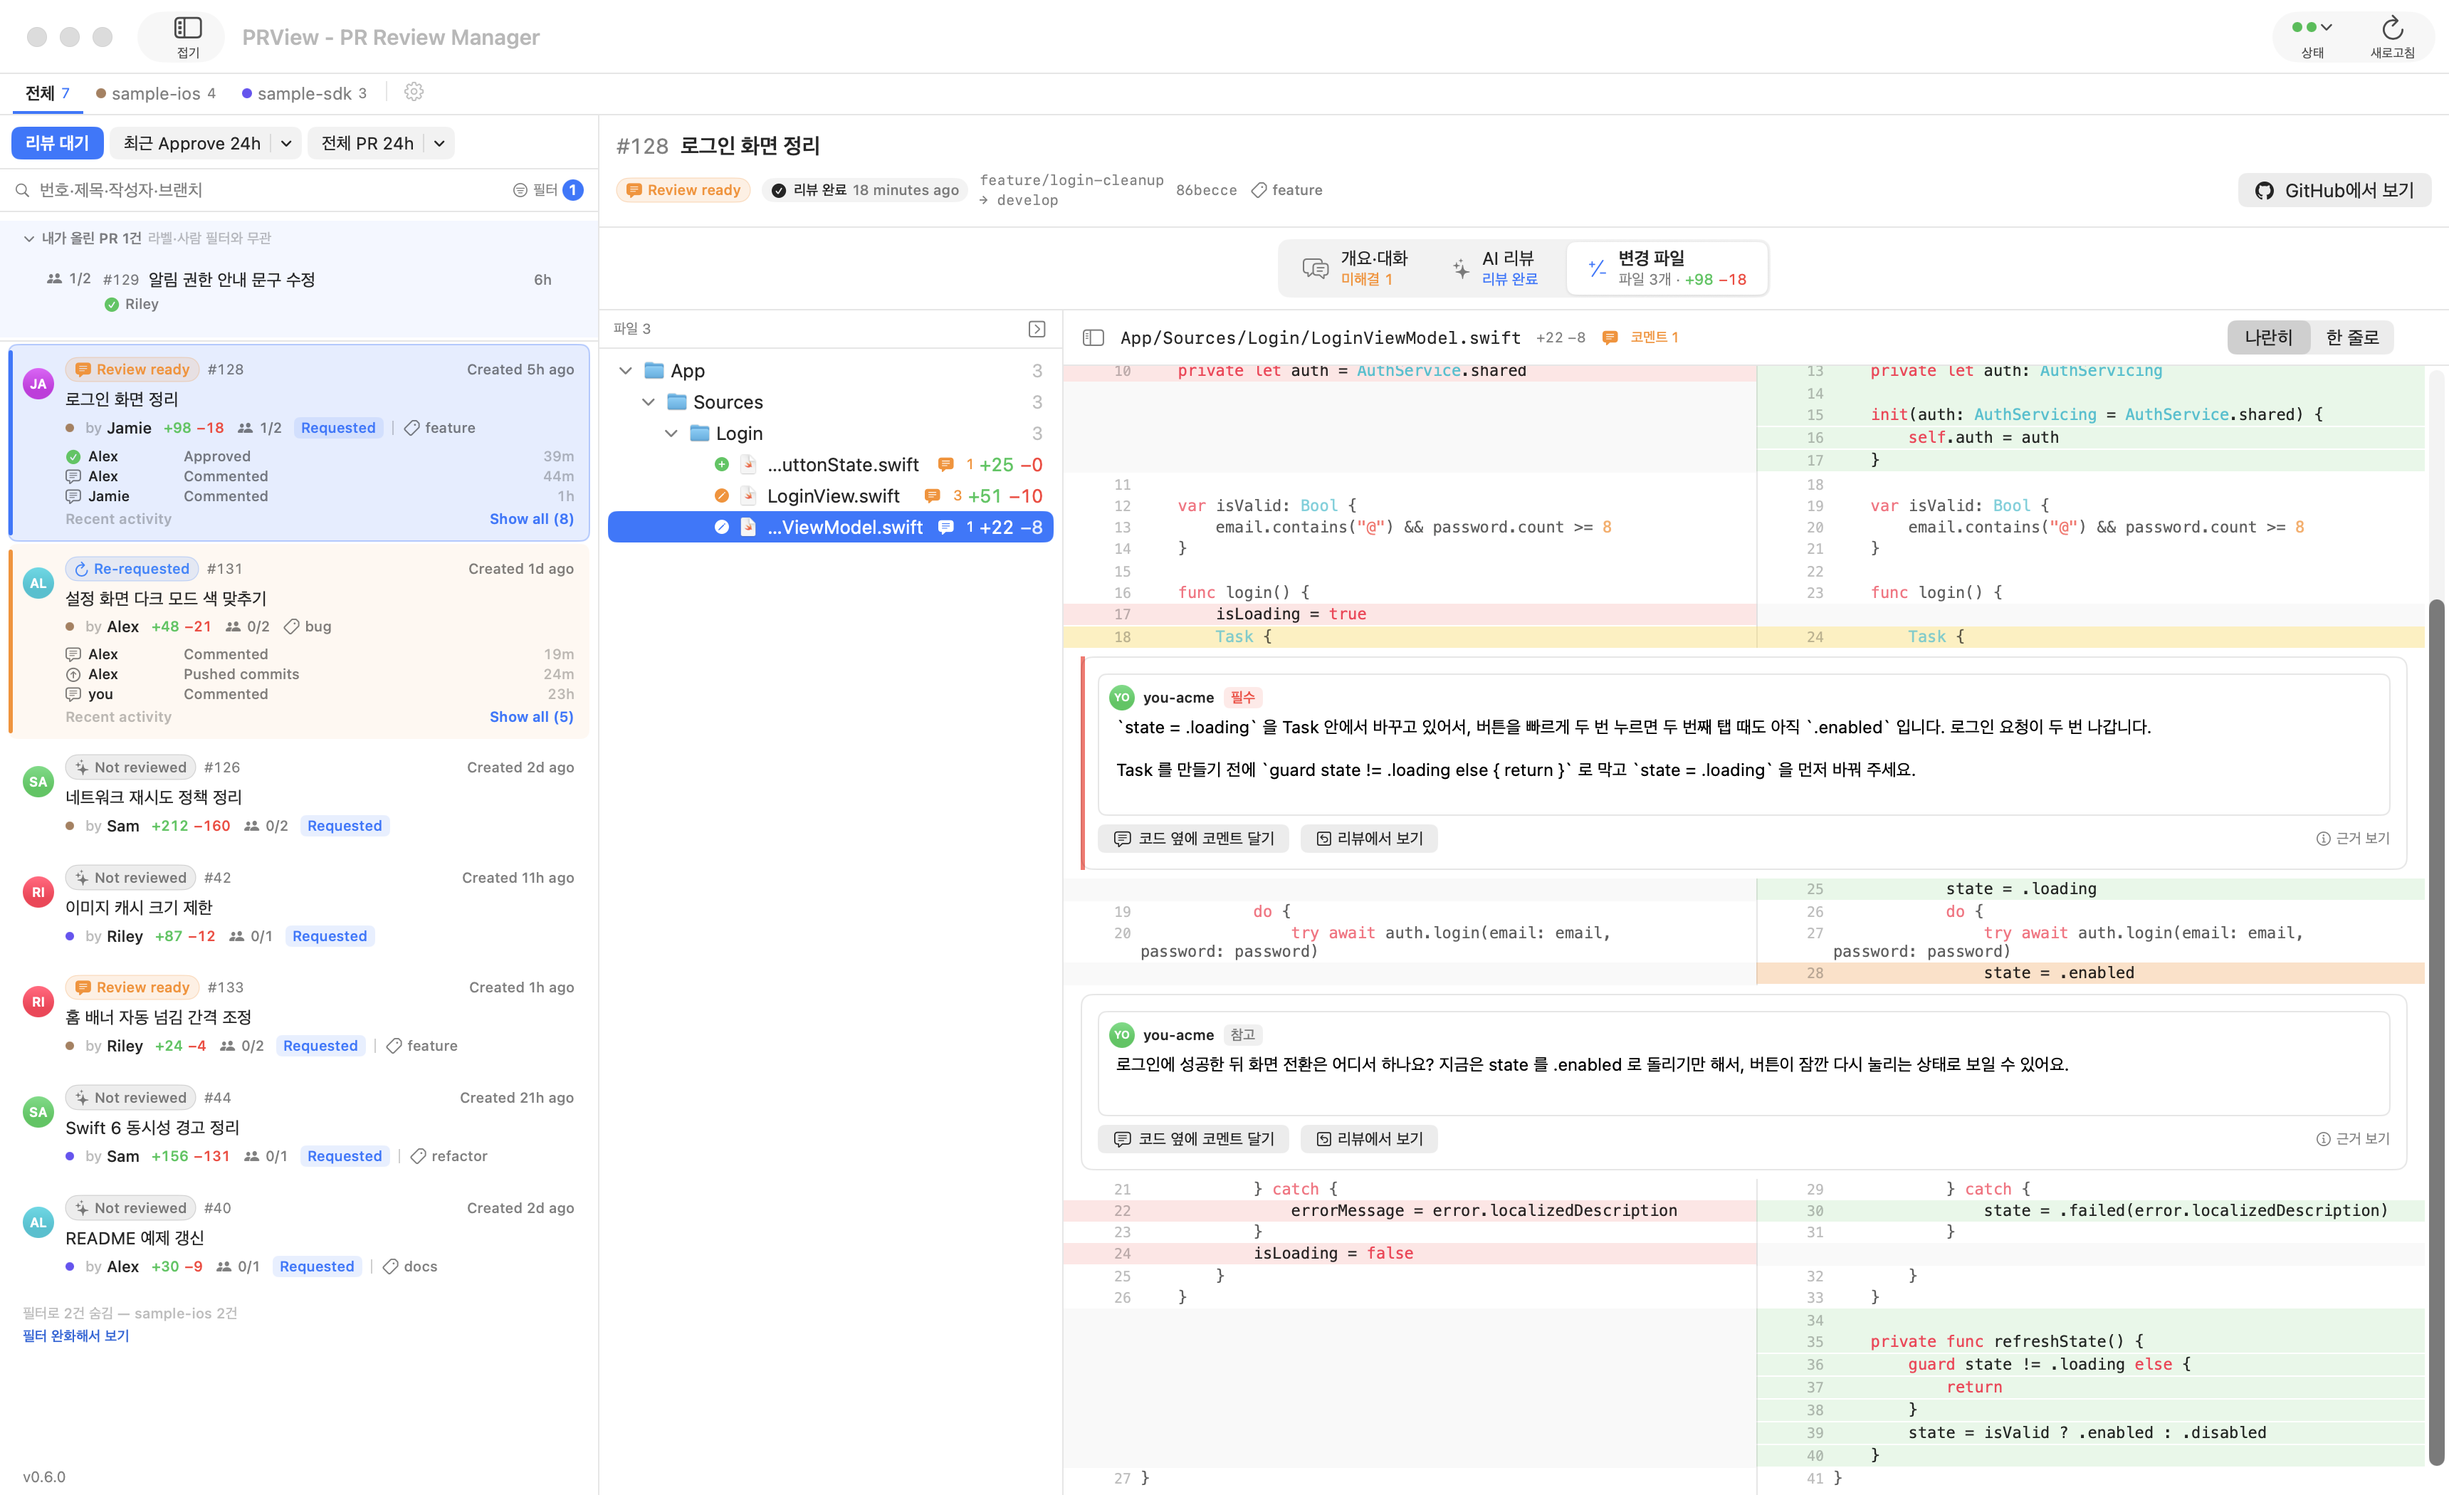
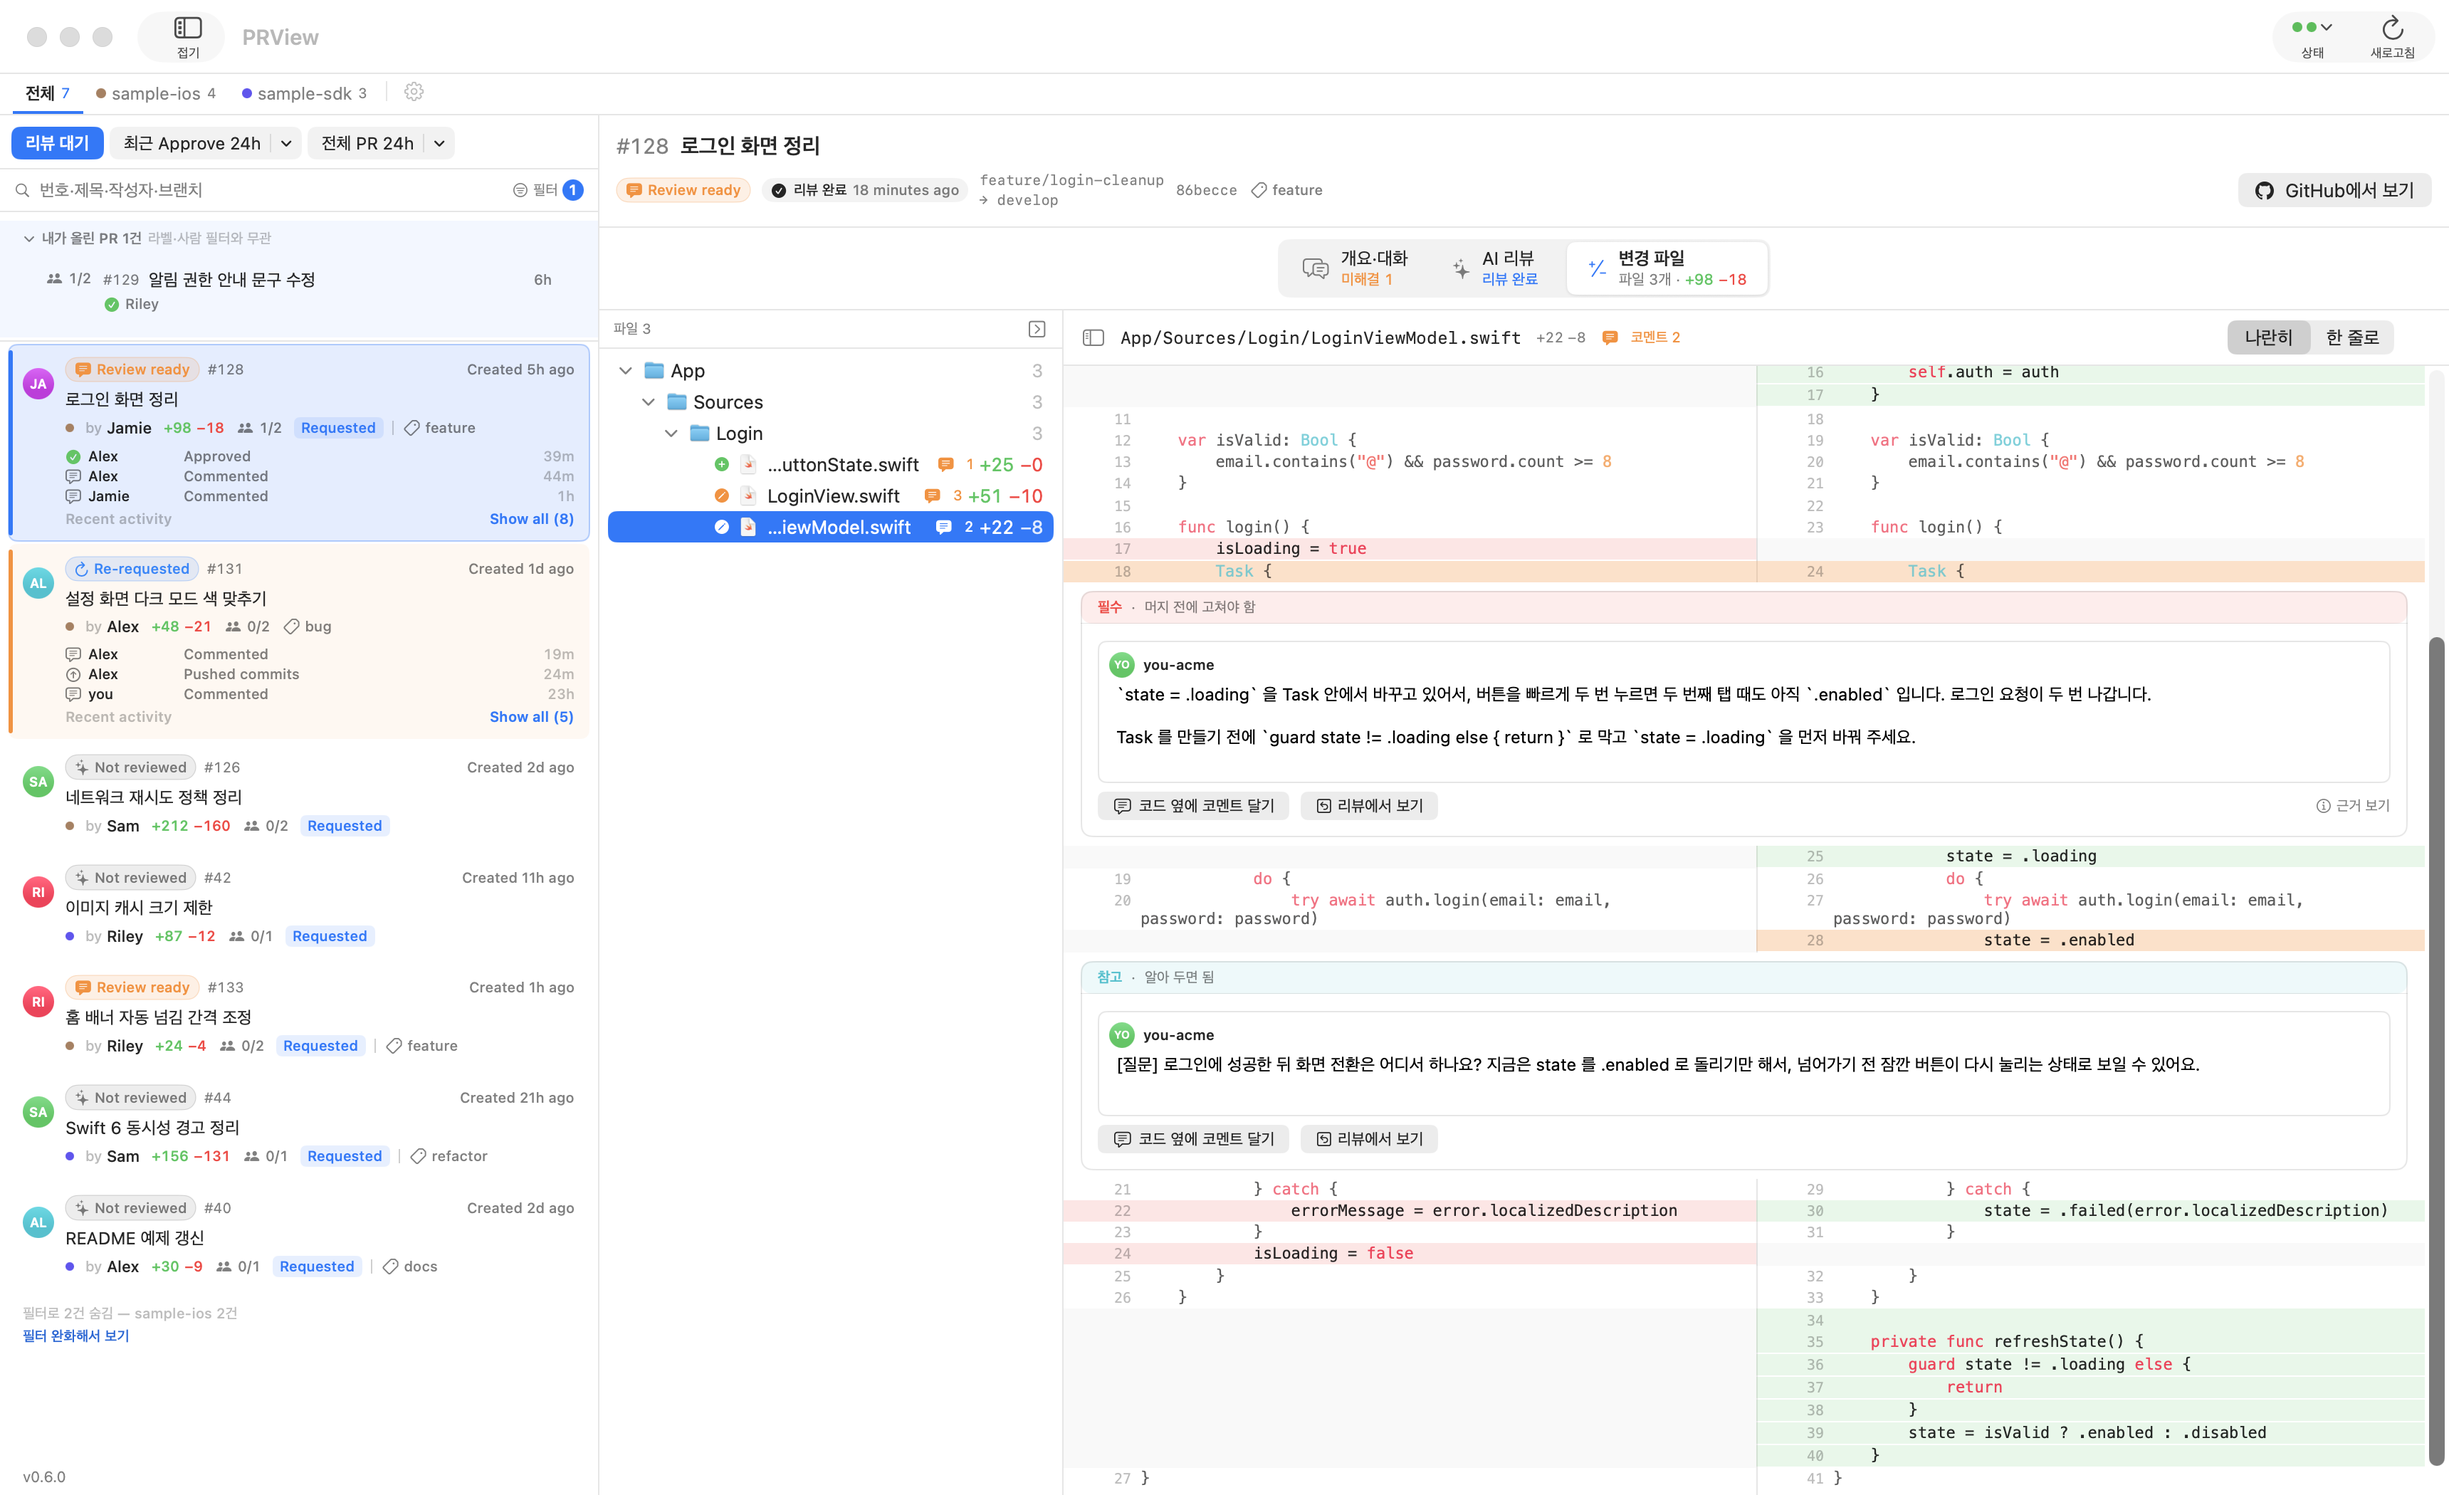
docs: README 캡처를 0.6.0 화면으로 교체
새 리뷰 형식(필수·권장·참고 한 목록)이 들어간 0.6.0 화면으로 5장을 다시 찍었다.
화면의 저장소·PR·사람은 모두 데모용 가짜 데이터다.

diff --git a/README.md b/README.md
@@ -25,7 +25,7 @@ PR 정보와 본문, 커밋·코드 코멘트·리뷰가 오간 흐름을 시간
 
 ![AI 리뷰 — 머지를 막는 이슈 있음](docs/screenshots/review.png)
 
-왼쪽은 리뷰 본문, 오른쪽은 코드 줄에 달 코멘트입니다. 머지를 막는 이슈가 있으면 위에 붉은 줄로 알려 주고, 그 코멘트를 맨 위에 모읍니다.
+왼쪽은 리뷰 본문, 오른쪽은 코드 줄에 달 코멘트입니다. 코멘트는 필수·권장·참고로 나뉘고, 머지를 막는 이슈(필수)가 있으면 위에 붉은 줄로 알려 주며 그 코멘트를 맨 위에 모읍니다.
 
 ![AI 리뷰 — 머지를 막는 이슈 없음](docs/screenshots/review-clean.png)
 
